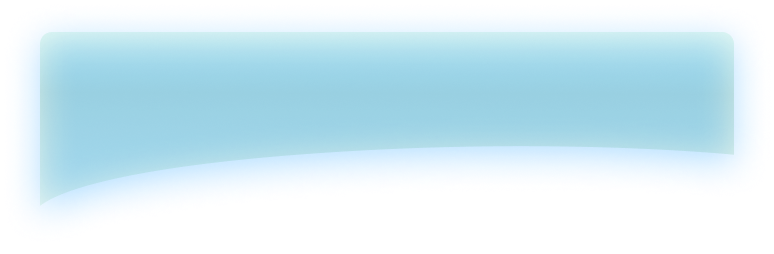
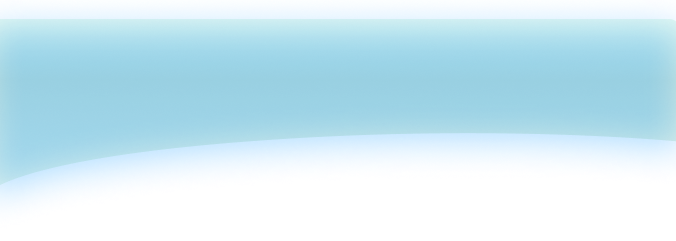
changes live games item background image & bottom navigation bar adaptive layout changes

Changed region(s): [[0.0, 0.0581, 1.0, 0.8133]]

diff --git a/lib/screens/main_screens/main_screen.dart b/lib/screens/main_screens/main_screen.dart
@@ -3,16 +3,12 @@ import 'dart:developer';
 import 'package:curved_bottom_navigation/curved_bottom_navigation.dart';
 import 'package:firebase_messaging/firebase_messaging.dart';
 import 'package:flutter/material.dart';
-import 'package:pokerapp/models/pending_approvals.dart';
 import 'package:pokerapp/models/player_info.dart';
-import 'package:pokerapp/resources/app_colors.dart';
 import 'package:pokerapp/resources/app_constants.dart';
 import 'package:pokerapp/resources/app_icons.dart';
 import 'package:pokerapp/resources/new/app_colors_new.dart';
 import 'package:pokerapp/screens/game_play_screen/widgets/voice_text_widget.dart';
-import 'package:pokerapp/screens/game_screens/new_game_settings/choose_game_new.dart';
 import 'package:pokerapp/screens/main_screens/clubs_page_view/clubs_page_view.dart';
-import 'package:pokerapp/screens/main_screens/games_page_view/games_page_view.dart';
 import 'package:pokerapp/screens/main_screens/games_page_view/live_games.dart';
 import 'package:pokerapp/screens/main_screens/profile_page_view/profile_page_view.dart';
 import 'package:pokerapp/screens/main_screens/purchase_page_view/purchase_page_view.dart';
@@ -22,9 +18,10 @@ import 'package:pokerapp/services/app/player_service.dart';
 import 'package:pokerapp/services/firebase/push_notification_service.dart';
 import 'package:pokerapp/services/nats/nats.dart';
 import 'package:pokerapp/services/test/test_service.dart';
-import 'package:pokerapp/widgets/tab_bar_item.dart';
 import 'package:provider/provider.dart';
 import 'package:pokerapp/utils/utils.dart';
+
+import 'package:pokerapp/utils/adaptive_sizer.dart';
 
 class MainScreen extends StatefulWidget {
   @override
@@ -182,15 +179,12 @@ class _MainScreenState extends State<MainScreen>
             alignment: Alignment.bottomCenter,
             child: CurvedBottomNavigation(
               selected: _navPos,
-              fabSize: 48,
-              navHeight: 56,
+              fabSize: 35.pw,
+              navHeight: 50.ph,
               bgColor: AppColorsNew.newNavBarColor,
               fabBgColor: AppColorsNew.newNavBarColor,
-              iconSize: 24,
               onItemClick: (i) {
-                setState(() {
-                  _navPos = i;
-                });
+                setState(() => _navPos = i);
               },
               items: [
                 CurvedNavItem(
@@ -229,8 +223,11 @@ class _MainScreenState extends State<MainScreen>
 }
 
 class CurvedNavItem extends StatelessWidget {
-  CurvedNavItem(
-      {@required this.title, @required this.iconData, @required this.selected});
+  CurvedNavItem({
+    @required this.title,
+    @required this.iconData,
+    @required this.selected,
+  });
 
   final String title;
   final IconData iconData;
@@ -244,28 +241,25 @@ class CurvedNavItem extends StatelessWidget {
       children: <Widget>[
         Icon(
           iconData,
+          size: 15.0.pw,
           color: selected
               ? AppColorsNew.newTextGreenColor
               : AppColorsNew.newNavBarInactiveItemColor,
         ),
         selected
             ? Container()
-            : Column(
-                children: [
-                  SizedBox(
-                    height: 4,
+            : Container(
+                margin: EdgeInsets.only(top: 4.ph),
+                child: Text(
+                  title.toUpperCase() ?? 'Title'.toUpperCase(),
+                  textAlign: TextAlign.center,
+                  style: TextStyle(
+                    color: AppColorsNew.newTextColor,
+                    fontSize: 10.dp,
+                    letterSpacing: 0.7.dp,
+                    fontWeight: FontWeight.w300,
                   ),
-                  Text(
-                    title.toUpperCase() ?? 'Title'.toUpperCase(),
-                    textAlign: TextAlign.center,
-                    style: TextStyle(
-                      color: AppColorsNew.newTextColor,
-                      fontSize: 10,
-                      letterSpacing: 0.7,
-                      fontWeight: FontWeight.w300,
-                    ),
-                  )
-                ],
+                ),
               ),
       ],
     );

diff --git a/lib/screens/main_screens/games_page_view/widgets/live_games_item.dart b/lib/screens/main_screens/games_page_view/widgets/live_games_item.dart
@@ -42,7 +42,7 @@ class LiveGameItem extends StatelessWidget {
               image: AssetImage(
                 AppAssetsNew.pathLiveGameItemBackground,
               ),
-              fit: BoxFit.contain,
+              fit: BoxFit.fitWidth,
             ),
           ),
           child: Row(
